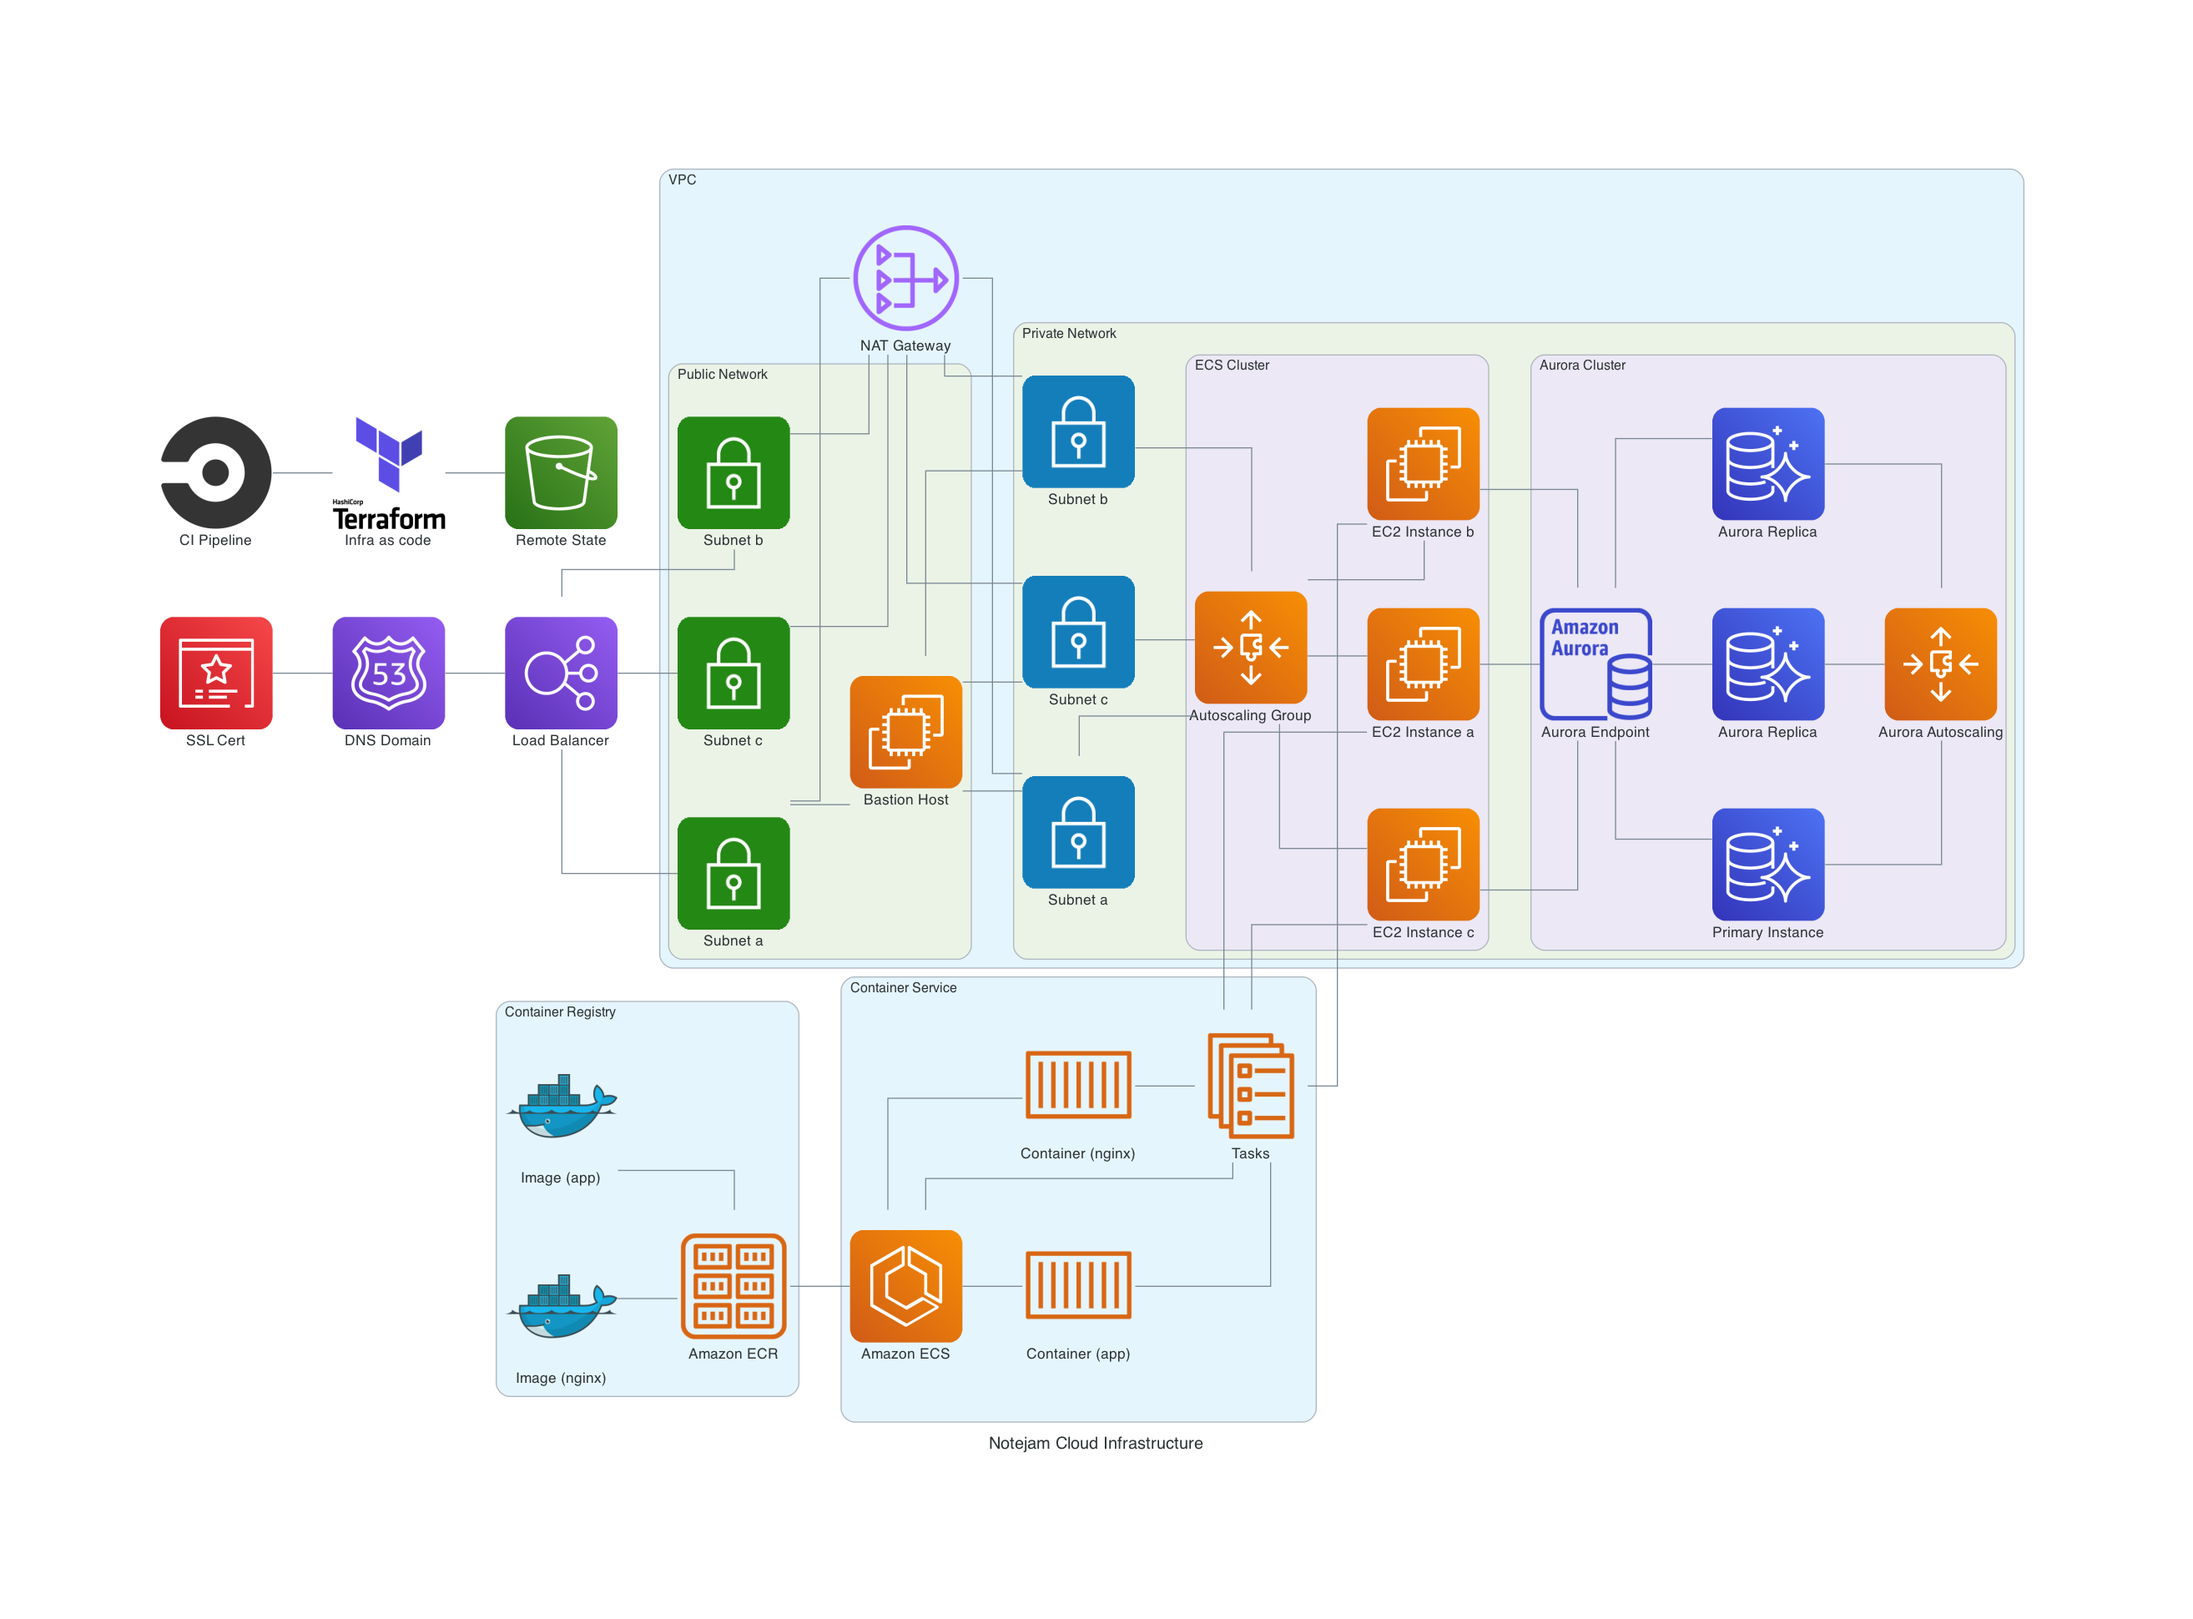
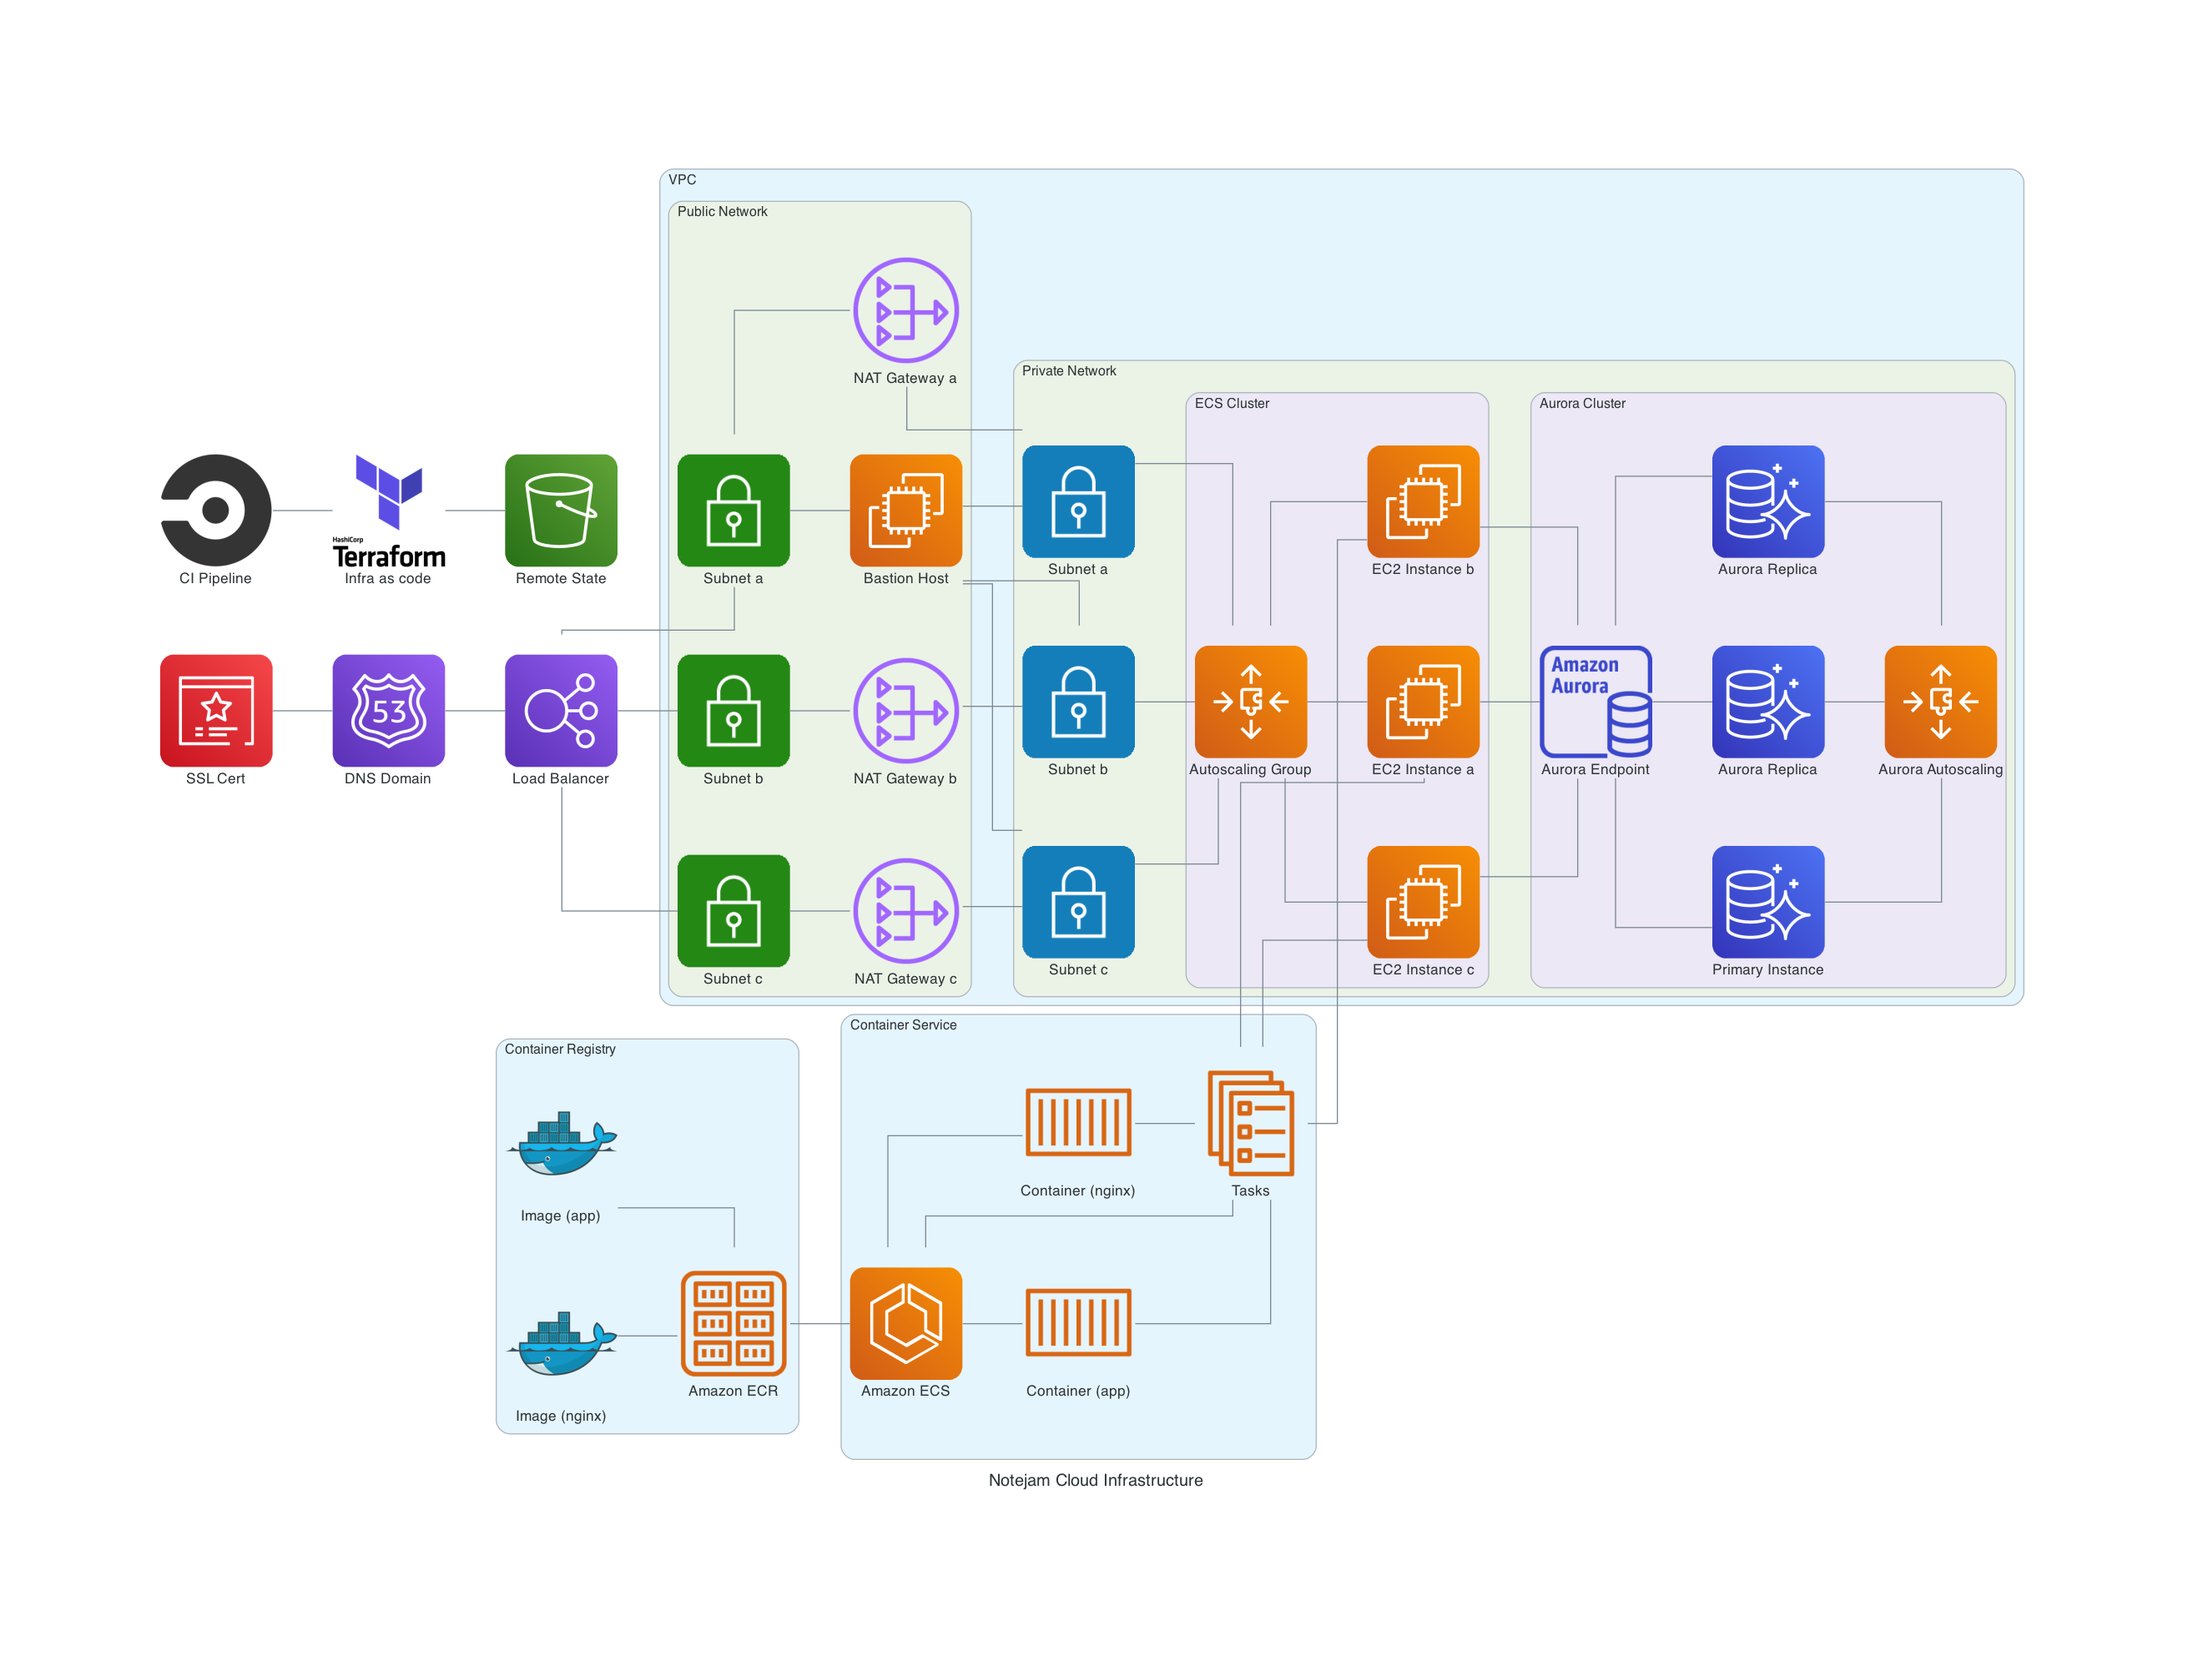
Diagram: NAT Gateway added to every public subnet

diff --git a/diagram/infra.py b/diagram/infra.py
@@ -29,9 +29,13 @@ with Diagram("Notejam Cloud Infrastructure", show=False, direction="LR"):
                 PublicSubnet("Subnet a"),
                 PublicSubnet("Subnet b"),
                 PublicSubnet("Subnet c"),
+                ]            
+            nat_gateways = [
+                NATGateway("NAT Gateway a"),
+                NATGateway("NAT Gateway b"),
+                NATGateway("NAT Gateway c"),
                 ]
-            bastion_host = EC2("Bastion Host")                
-        nat_gateway = NATGateway("NAT Gateway")
+            bastion_host = EC2("Bastion Host")
         with Cluster("Private Network"):
             private_subnets = [
                 PrivateSubnet("Subnet a"),
@@ -72,9 +76,13 @@ with Diagram("Notejam Cloud Infrastructure", show=False, direction="LR"):
     ssl_certificate - dns_name
     dns_name - load_balancer
     load_balancer - public_subnets
-    public_subnets - nat_gateway
+    public_subnets[0] - nat_gateways[0]
+    public_subnets[1] - nat_gateways[1]
+    public_subnets[2] - nat_gateways[2]    
+    nat_gateways[0] - private_subnets[0]
+    nat_gateways[1] - private_subnets[1]
+    nat_gateways[2] - private_subnets[2]
     public_subnets[0] - bastion_host
-    nat_gateway - private_subnets
     bastion_host - private_subnets
     private_subnets - autoscaling_group
     autoscaling_group - autoscaling_group_instances
